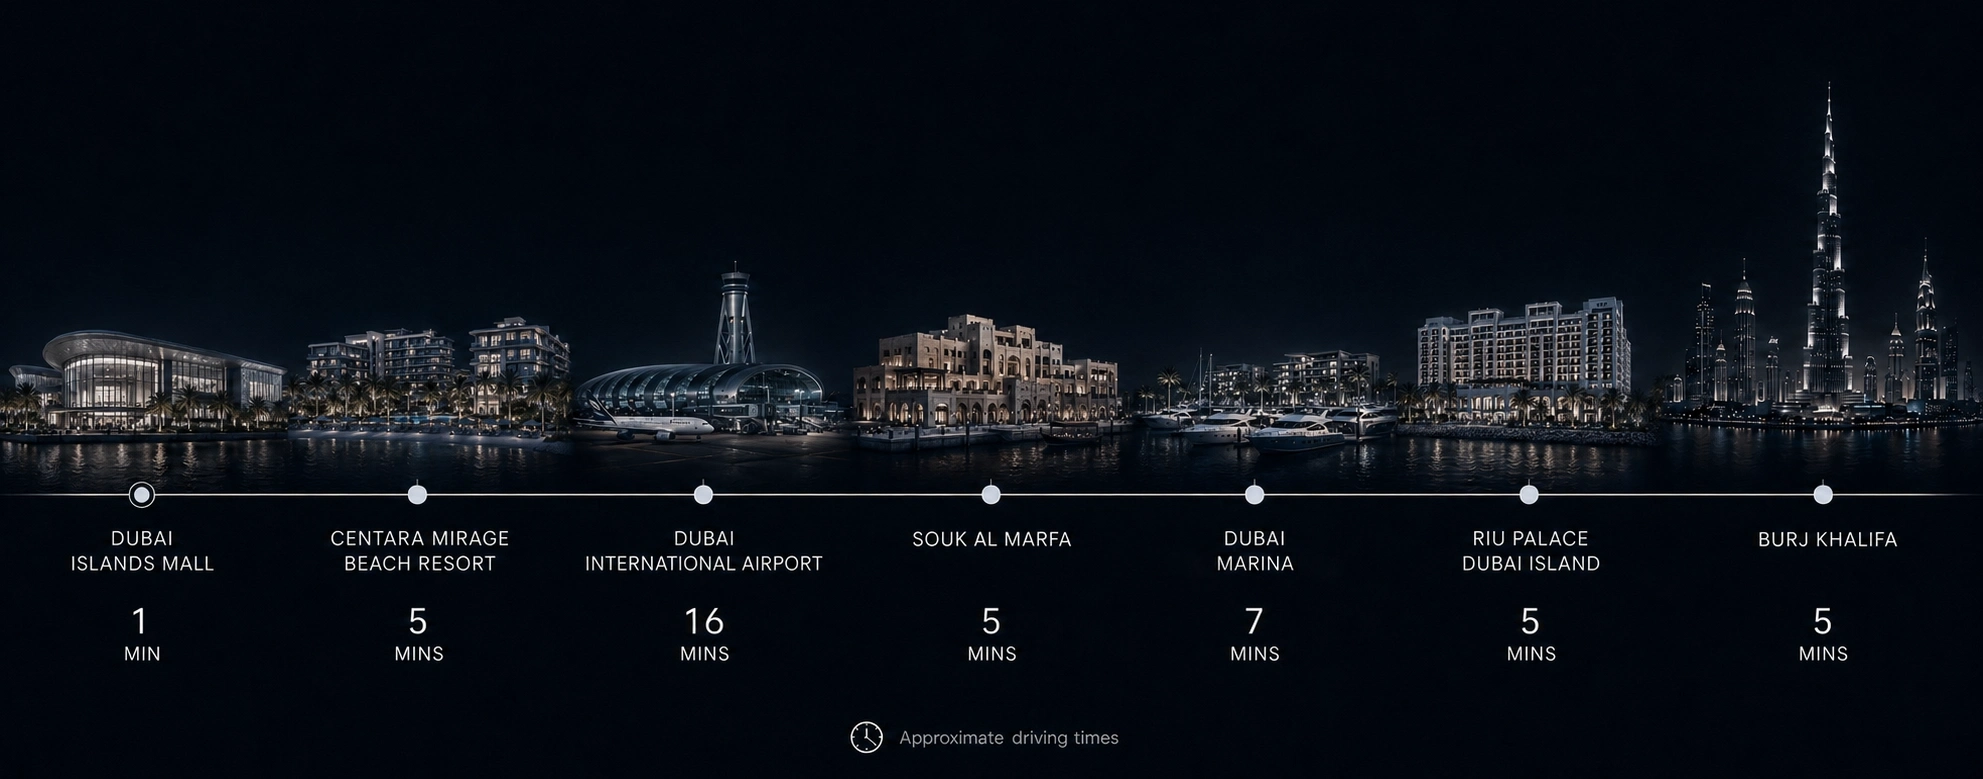
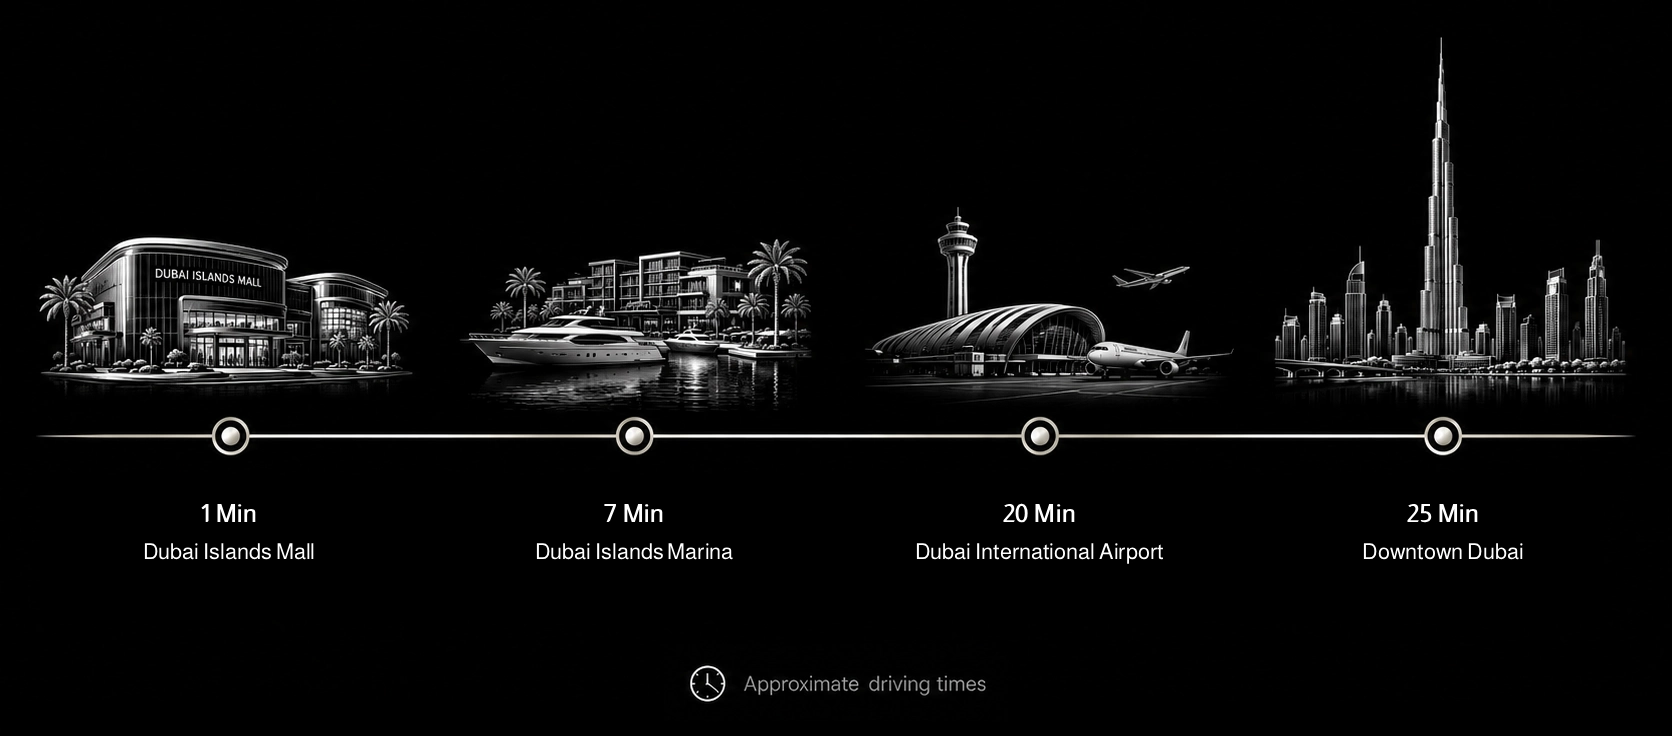
feat: refine destination detail pages

diff --git a/app/pages/destinations/[slug].vue b/app/pages/destinations/[slug].vue
@@ -8,9 +8,8 @@
           <main v-if="dest" class="prestige-page">
             <prestige-page-hero
               class="prestige-destination-detail-hero"
-              :eyebrow="isDubaiMaritimeCity ? 'DUBAI MARITIME CITY' : dest.region"
               :title="isDubaiMaritimeCity ? 'Waterfront Living, Close to the Heart of Dubai' : dName(dest)"
-              :lead="isDubaiMaritimeCity ? undefined : dIntro"
+              :lead="destinationHeroLead"
               :image="dest.image"
               :show-actions="false"
             />
@@ -32,14 +31,21 @@
             />
 
             <!-- distance -->
-            <section class="prestige-maritime-distance prestige-maritime-distance--desktop">
+            <section class="prestige-maritime-distance">
+              <prestige-project-section-heading
+                class="prestige-maritime-distance__heading"
+                title="Close to What Matters"
+                title-class="prestige-maritime-distance__title"
+                :zoom-title="false"
+              />
               <img
+                class="prestige-maritime-distance__image"
                 :src="destinationDistanceImage"
                 :alt="`Travel times from ${dName(dest)} to key Dubai destinations`"
                 loading="lazy"
               >
+              <prestige-destination-distance-slider :slides="destinationDistanceSlides" />
             </section>
-            <prestige-destination-distance-slider :slides="destinationDistanceSlides" />
 
             <!-- Good to know -->
             <prestige-faq-accordion
@@ -59,6 +65,8 @@
                 <prestige-project-section-heading
                   class="prestige-destination-developments__heading"
                   :title="developmentsTitle"
+                  :subtitle="destinationDevelopmentsSubtitle"
+                  :description="destinationDevelopmentsDescription"
                   title-class="prestige-destination-developments__title"
                 />
                 <div class="row g-4 justify-content-center prestige-destination-developments__grid">
@@ -68,7 +76,11 @@
                     class="col-xl-4 col-lg-4 col-md-6 tp_fade_anim"
                     data-delay=".2"
                   >
-                    <prestige-project-card class="prestige-destination-developments__card" :project="p" />
+                    <prestige-project-card
+                      class="prestige-destination-developments__card"
+                      :project="p"
+                      :show-description="isDubaiMaritimeCity"
+                    />
                   </div>
                 </div>
               </div>
@@ -83,13 +95,12 @@
             <!-- CTA -->
             <prestige-cta-band
               class="prestige-destination-cta"
-              :eyebrow="t('dp.detail.cta_eyebrow')"
-              :title="t('dp.detail.cta_title', { name: dest.name })"
-              :text="t('dp.detail.cta_text', { name: dest.name })"
+              :title="destinationCtaTitle"
+              :text="isDubaiMaritimeCity ? 'Waterfront Living, Within Reach.' : t('dp.detail.cta_text', { name: dest.name })"
               :image="destinationCtaImage"
-              :primary-label="t('dp.detail.enquire')"
+              :primary-label="isDubaiMaritimeCity ? 'ENQUIRE NOW' : t('dp.detail.enquire')"
               :primary-to="localePath('/contact-us')"
-              :secondary-label="t('dp.detail.cta_secondary')"
+              :secondary-label="isDubaiMaritimeCity ? 'EXPLORE ALL DESTINATIONS' : t('dp.detail.cta_secondary')"
               :secondary-to="localePath('/destinations')"
             />
 
@@ -118,6 +129,7 @@ const { dName } = useLocalizedNames();
 const route = useRoute();
 const dest = computed(() => getDestinationBySlug(String(route.params.slug)));
 const isDubaiMaritimeCity = computed(() => dest.value?.slug === "dubai-maritime-city");
+const isDubaiIslands = computed(() => dest.value?.slug === "dubai-islands");
 const destinationOverviewImages: Readonly<Record<string, string>> = {
   "dubai-maritime-city": "/assets/images/v3/our-destinations/maritime.webp",
   "dubai-sports-city": "/assets/images/v3/our-destinations/dubai-sport-city.webp",
@@ -129,6 +141,9 @@ const destinationCtaImages: Readonly<Record<string, string>> = {
 };
 const maritimeOverview = [
   "Set along Dubai’s coastline, Dubai Maritime City brings together sea views, city connectivity, and modern urban living. Its unique setting offers the calm of life by the water while keeping Dubai’s key destinations within easy reach.",
+];
+const dubaiIslandsOverview = [
+  "Dubai Islands brings together waterfront living, open coastal surroundings, and easy access to the city. With a growing mix of residences, leisure, and hospitality, it offers a fresh way to experience Dubai with the sea at the heart of everyday life.",
 ];
 const destinationTravelFaqs: Partial<Record<string, FaqItem>> = {
   "dubai-sports-city": {
@@ -173,19 +188,28 @@ const dIntro = computed(() => ddScalar("intro", dest.value?.intro ?? ""));
 const dAbout = computed(() => ddArray("about", dest.value?.about ?? []));
 const dTransport = computed(() => ddArray("transport", dest.value?.transport ?? []));
 const dInvestment = computed(() => ddArray("investment", dest.value?.investment ?? []));
+const destinationHeroLead = computed(() => {
+  if (isDubaiMaritimeCity.value) return undefined;
+  if (isDubaiIslands.value) return "A New Destination for Island Living";
+  return dIntro.value;
+});
 const destinationOverviewEyebrow = computed(() => `About ${dName(dest.value!)}`);
-const destinationOverviewTitle = computed(() =>
-  isDubaiMaritimeCity.value ? "Where the Waterfront Meets the City" : `Experience ${dName(dest.value!)}`
-);
+const destinationOverviewTitle = computed(() => {
+  if (isDubaiMaritimeCity.value) return "Where the Waterfront Meets the City";
+  if (isDubaiIslands.value) return "A New Side of Dubai, Shaped by the Sea.";
+  return `Experience ${dName(dest.value!)}`;
+});
 const destinationOverviewImage = computed(() =>
   destinationOverviewImages[dest.value!.slug] ?? dest.value!.image
 );
 const destinationCtaImage = computed(() =>
   destinationCtaImages[dest.value!.slug] ?? dest.value!.image
 );
-const destinationOverviewParagraphs = computed(() =>
-  isDubaiMaritimeCity.value ? maritimeOverview : dAbout.value
-);
+const destinationOverviewParagraphs = computed(() => {
+  if (isDubaiMaritimeCity.value) return maritimeOverview;
+  if (isDubaiIslands.value) return dubaiIslandsOverview;
+  return dAbout.value;
+});
 const destinationDistanceSlides = computed(() =>
   getDestinationDistanceSlides(dest.value!.slug)
 );
@@ -194,7 +218,20 @@ const destinationDistanceImage = computed(() =>
 );
 
 const areaProjects = computed(() => (dest.value ? getProjectsForDestination(dest.value) : []));
-const developmentsTitle = computed(() => `Our Developments in ${dName(dest.value!)}`);
+const developmentsTitle = computed(() => `PRESTIGE ONE IN ${dName(dest.value!).toUpperCase()}`);
+const destinationDevelopmentsSubtitle = computed(() =>
+  isDubaiIslands.value ? "Homes Shaped by Island Living." : ""
+);
+const destinationDevelopmentsDescription = computed(() =>
+  isDubaiIslands.value
+    ? "Explore Prestige One developments created to make the most of Dubai Islands’ coastal setting and relaxed way of life."
+    : ""
+);
+const destinationCtaTitle = computed(() => {
+  if (isDubaiMaritimeCity.value) return "Dubai Maritime City";
+  if (isDubaiIslands.value) return "A Different Side of Island Living";
+  return t("dp.detail.cta_title", { name: dest.value!.name });
+});
 
 const faqs = computed<FaqItem[]>(() => {
   const d = dest.value!;
@@ -225,7 +262,11 @@ usePrestigePage({ hero: false });
   --prestige-destination-section-heading-size: clamp(25px, 4.4vw, 30px);
 }
 .prestige-destination-detail-hero {
-  align-items: flex-end;
+  align-items: center;
+}
+:deep(.prestige-destination-detail-hero .prestige-hero-band__inner) {
+  padding-top: clamp(50px, 8vh, 110px);
+  padding-bottom: clamp(50px, 8vh, 110px);
 }
 :deep(.prestige-destination-detail-hero .row) {
   justify-content: center;
@@ -258,15 +299,19 @@ usePrestigePage({ hero: false });
 }
 .prestige-maritime-distance {
   width: 100%;
-  padding: 0 0 clamp(40px, 6vw, 80px);
+  padding: clamp(40px, 6vw, 80px) 0;
   border: 0;
   background: #000;
 }
-
-.prestige-maritime-distance img {
+.prestige-maritime-distance__heading {
+  margin-bottom: clamp(26px, 3vw, 42px);
+}
+.prestige-maritime-distance__image {
   display: block;
   width: 100%;
+  max-width: 70vw;
   height: auto;
+  margin: 0 auto;
   border: 0;
   border-radius: 0;
 }
@@ -306,11 +351,23 @@ usePrestigePage({ hero: false });
 .prestige-destination-developments__heading {
   margin-bottom: clamp(34px, 4vw, 50px);
 }
+.prestige-destination-developments__heading :deep(.prestige-project-heading__subtitle) {
+  margin-top: 10px;
+}
+.prestige-destination-developments__heading :deep(.prestige-project-heading__description) {
+  width: 100%;
+  max-width: 620px;
+  margin-top: 10px;
+}
 .prestige-destination-developments :deep(.prestige-destination-developments__card .prestige-pcard__body) {
   text-align: center;
 }
 
 @media (max-width: 767.98px) {
+  .prestige-maritime-distance__image {
+    display: none;
+  }
+
   :deep(.prestige-destination-overview .prestige-eyebrow),
   :deep(.prestige-destination-overview .prestige-heading),
   :deep(.prestige-destination-faq .prestige-eyebrow),
@@ -335,10 +392,6 @@ usePrestigePage({ hero: false });
 }
 
 @media (max-width: 575.98px) {
-  .prestige-maritime-distance--desktop {
-    display: none;
-  }
-
   :deep(.prestige-destination-detail-hero .prestige-hero-band__inner) {
     padding-right: 24px;
     padding-left: 24px;

diff --git a/app/components/prestige/project-section-heading.vue b/app/components/prestige/project-section-heading.vue
@@ -15,6 +15,10 @@
       class="prestige-heading prestige-project-heading__title prestige-text-paint"
       :class="[titleClass, { 'prestige-developments-title': zoomTitle }]"
     >{{ title }}</h2>
+    <h3
+      v-if="subtitle"
+      class="prestige-project-heading__subtitle prestige-text-paint"
+    >{{ subtitle }}</h3>
     <p
       v-if="description"
       class="prestige-project-heading__description prestige-developments-subtitle"
@@ -27,6 +31,7 @@
 withDefaults(defineProps<{
   eyebrow?: string;
   title: string;
+  subtitle?: string;
   description?: string;
   align?: "left" | "center";
   uppercase?: boolean;
@@ -35,6 +40,7 @@ withDefaults(defineProps<{
   descriptionClass?: string;
 }>(), {
   eyebrow: "",
+  subtitle: "",
   description: "",
   align: "center",
   uppercase: false,
@@ -82,6 +88,13 @@ withDefaults(defineProps<{
 }
 .prestige-project-heading__eyebrow + .prestige-project-heading__title {
   margin-top: 14px;
+}
+.prestige-project-heading__subtitle {
+  margin: 18px 0 0;
+  font-family: var(--tp-ff-cormorant, "Cormorant Garamond", Georgia, serif);
+  font-size: clamp(18px, 2vw, 22px);
+  font-weight: 400;
+  line-height: 1.25;
 }
 .prestige-project-heading--uppercase .prestige-project-heading__title {
   text-transform: uppercase;

diff --git a/app/components/prestige/destination-distance-slider.vue b/app/components/prestige/destination-distance-slider.vue
@@ -4,8 +4,6 @@
     class="prestige-destination-distance-mobile"
     aria-label="Driving Distances"
   >
-    <h2 class="prestige-destination-distance-mobile__title">Driving Distances</h2>
-
     <div
       class="prestige-destination-distance-mobile__viewport"
       @pointerdown="onPointerDown"
@@ -159,18 +157,8 @@ onBeforeUnmount(() => {
   .prestige-destination-distance-mobile {
     display: block;
     overflow: hidden;
-    padding: 42px 18px 48px;
+    padding: 0 18px;
     background: #000;
-  }
-
-  .prestige-destination-distance-mobile__title {
-    margin: 0 0 22px;
-    color: #fff;
-    font-size: clamp(25px, 8vw, 30px);
-    font-weight: 400;
-    line-height: 1.15;
-    letter-spacing: 0;
-    text-align: center;
   }
 
   .prestige-destination-distance-mobile__viewport {

diff --git a/app/data/destination-distance-slides.ts b/app/data/destination-distance-slides.ts
@@ -59,7 +59,7 @@ const slidesByDestination: Readonly<Record<string, DestinationDistanceSlide[]>> 
 const desktopImageByDestination: Readonly<Record<string, string>> = {
   "barsha-heights": "/assets/images/v3/our-destinations/distance-barsha.webp",
   "dlrc": "/assets/images/v3/our-destinations/dlrc-distance.webp",
-  "dubai-maritime-city": "/assets/images/v3/maritime-distance.webp",
+  "dubai-maritime-city": "/assets/images/v3/our-destinations/maritime-distance.webp",
   "dubai-islands": "/assets/images/v3/our-destinations/dubai-island-distances.webp",
   "dubai-sports-city": "/assets/images/v3/our-destinations/sport-city-distances.webp",
   "jumeirah-garden-city": "/assets/images/v3/our-destinations/distance-Jumeirah -Garden-City.webp",

diff --git a/app/data/projects.ts b/app/data/projects.ts
@@ -202,7 +202,7 @@ const PROJECT_CATALOGUE: ProjectSource[] = [
     image: "/assets/project-featured-images/sliders/hilton-1.webp",
     title: "Hilton Residences Dubai Maritime City",
     location: "Dubai Maritime City",
-    description: "Waterfront living inspired by the Hilton way of life.",
+    description: "Waterfront residences bringing together refined design, exceptional views, and Hilton’s renowned hospitality.",
     registrationUrl: "https://hiltonresidencesdubaimaritimecity.ae",
     category: "residential",
     brand: "Hilton",
